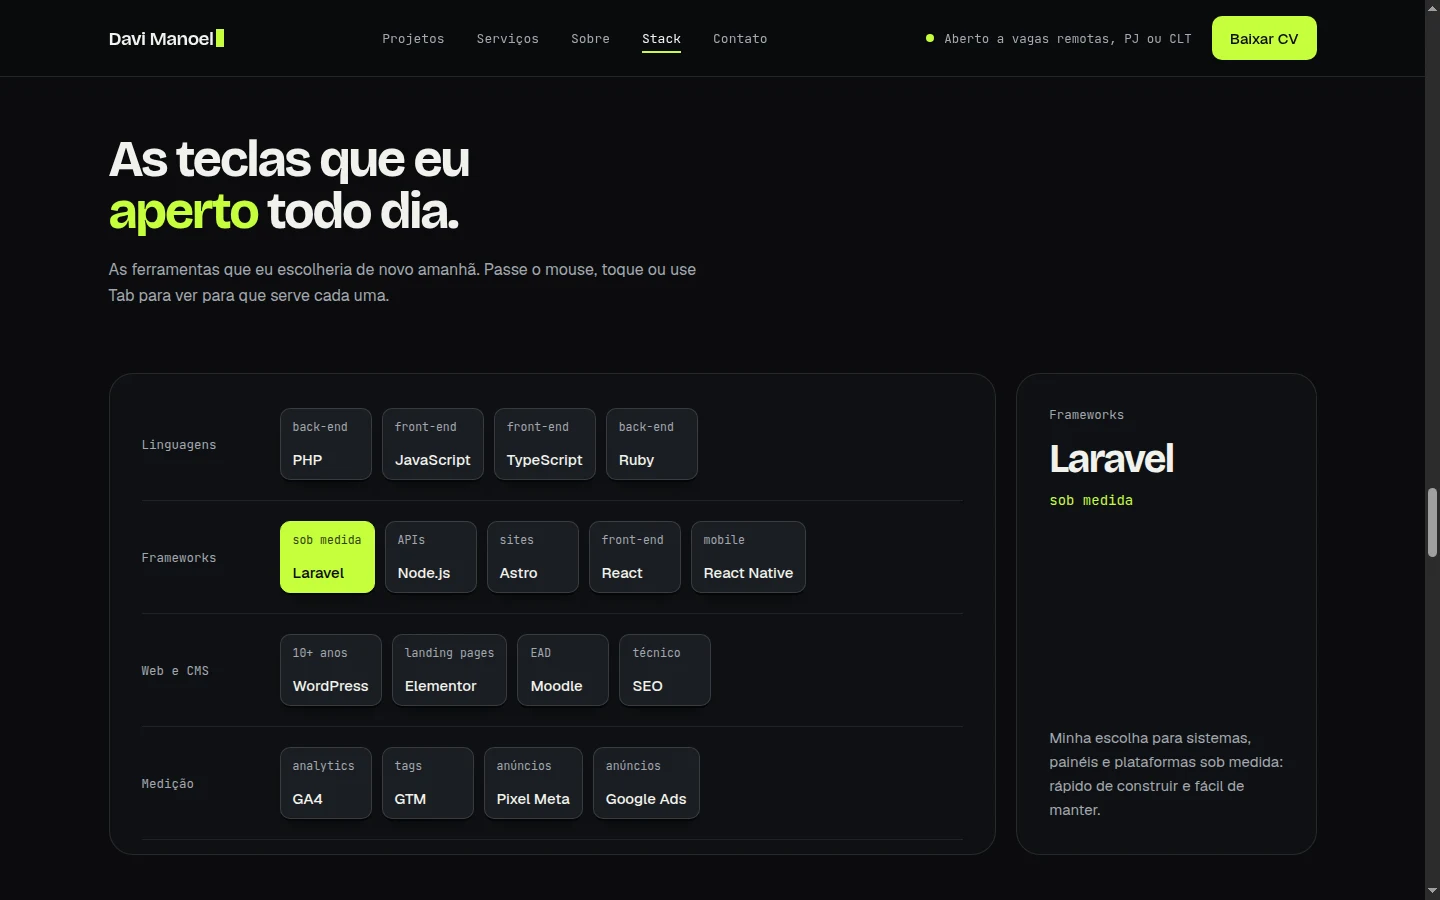
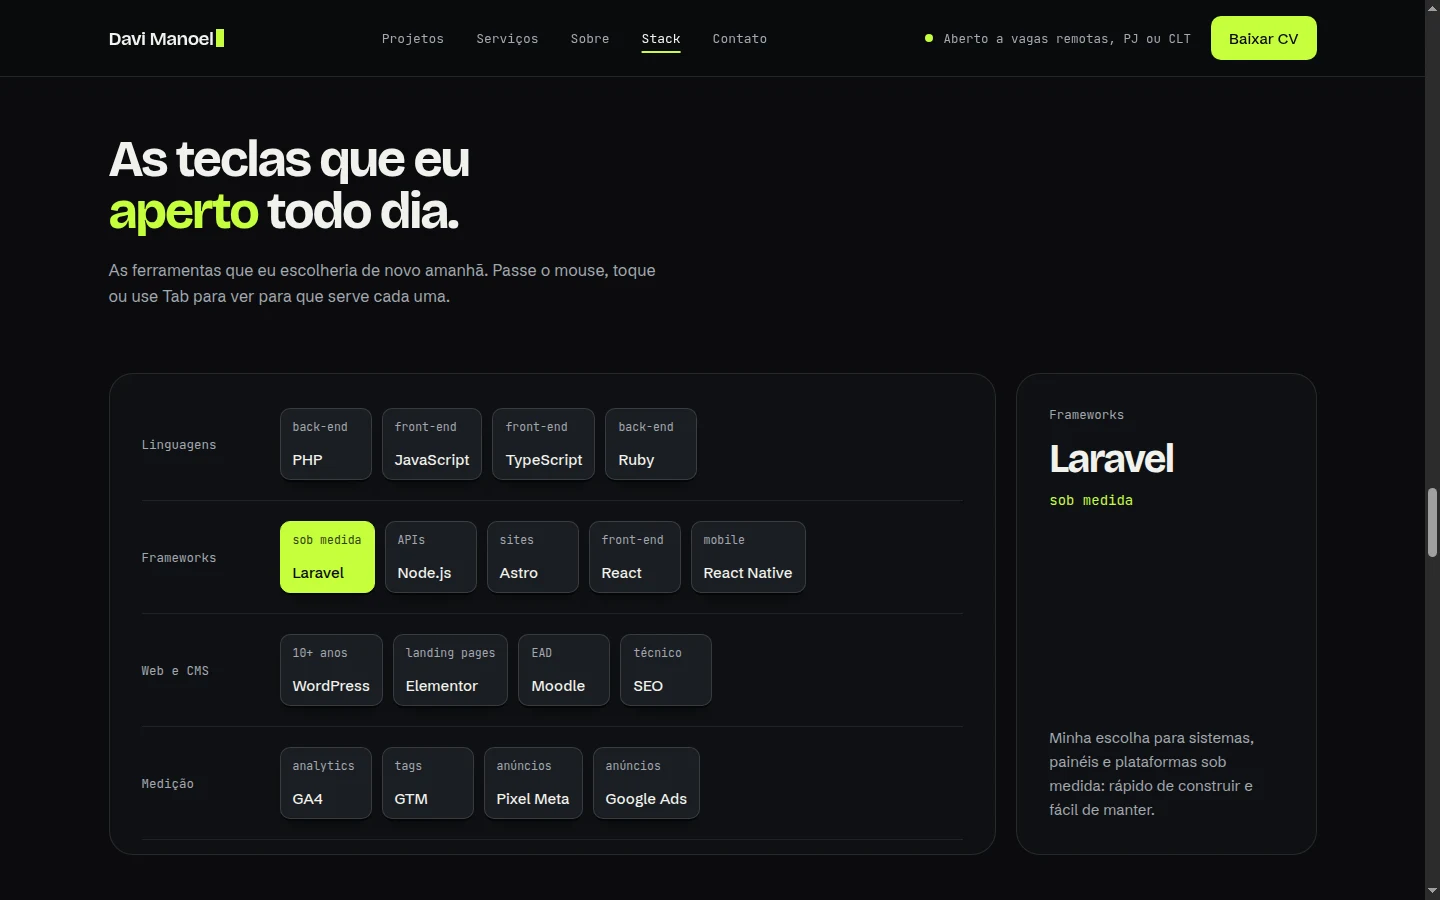
feat: update font references and asset files for improved site performance

diff --git a/README.md b/README.md
@@ -10,7 +10,7 @@ feito para carregar rápido até no 4G.
 [![Astro 7](https://img.shields.io/badge/Astro-7-0b0c0e?style=flat-square&logo=astro&logoColor=c6ff3d)](https://astro.build)
 [![TypeScript strict](https://img.shields.io/badge/TypeScript-strict-0b0c0e?style=flat-square&logo=typescript&logoColor=c6ff3d)](tsconfig.json)
 [![JS no navegador](https://img.shields.io/badge/JS_no_navegador-2%2C3_kB-c6ff3d?style=flat-square&labelColor=0b0c0e)](#em-números)
-[![Primeira carga](https://img.shields.io/badge/primeira_carga-234_kB-c6ff3d?style=flat-square&labelColor=0b0c0e)](#em-números)
+[![Primeira carga](https://img.shields.io/badge/primeira_carga-252_kB-c6ff3d?style=flat-square&labelColor=0b0c0e)](#em-números)
 [![Node](https://img.shields.io/badge/node-%E2%89%A522.23-0b0c0e?style=flat-square&logo=nodedotjs&logoColor=c6ff3d)](.nvmrc)
 
 [LinkedIn](https://www.linkedin.com/in/davi-manoel/) · [Site Sob Medida](https://www.sitesobmedida.com.br/) · [GitHub](https://github.com/sondavi1991)
@@ -26,7 +26,7 @@ Medido no build de produção, primeira visita em desktop, sem cache:
 | Métrica | Valor |
 | --- | --- |
 | Requisições | **8** |
-| Peso transferido | **~234 kB** (comprimido) |
+| Peso transferido | **~252 kB** (comprimido) |
 | JavaScript | **2,3 kB**, embutido no HTML, sem framework |
 | Fontes | 3 arquivos variáveis WOFF2, servidos pelo próprio site |
 | Imagens | WebP responsivo, só o hero carrega de imediato |
@@ -35,7 +35,7 @@ Medido no build de produção, primeira visita em desktop, sem cache:
 %%{init: {'theme':'base','themeVariables':{'pie1':'#c6ff3d','pie2':'#7a9a26','pie3':'#3d4a14','pie4':'#a3a8b0','pieStrokeColor':'#0b0c0e','pieOuterStrokeColor':'#0b0c0e','pieTitleTextSize':'16px','pieSectionTextColor':'#0b0c0e','pieLegendTextColor':'#a3a8b0'}}}%%
 pie showData
     title Primeira carga por tipo (kB comprimidos)
-    "Fontes" : 137.5
+    "Fontes" : 155.1
     "Imagens" : 79.2
     "HTML + JS embutido" : 11.7
     "CSS" : 5.7
@@ -64,7 +64,7 @@ pie showData
   e devolve o foco ao botão. O menu destaca a seção que está na tela.
 - **Teclado de stack interativo.** Funciona com mouse, toque e Tab. No celular, o painel de
   descrição acompanha a rolagem.
-- **Fontes sem depender do Google.** Bricolage Grotesque, Geist e JetBrains Mono são baixadas no
+- **Fontes sem depender do Google.** Bricolage Grotesque, Schibsted Grotesk e JetBrains Mono são baixadas no
   build (com o eixo de tamanho óptico da Bricolage) e servidas pelo próprio site, com `preload` e
   fonte reserva calibrada para a página não “pular” enquanto carrega.
 - **Conteúdo separado do layout.** Textos, projetos, stack, carreira e FAQ moram num único arquivo
@@ -103,7 +103,7 @@ flowchart LR
 | Framework | [Astro 7](https://astro.build), saída estática |
 | Linguagem | TypeScript em modo `strict` |
 | Estilos | CSS puro com custom properties |
-| Fontes | Fonts API do Astro: Bricolage Grotesque, Geist e JetBrains Mono |
+| Fontes | Fonts API do Astro: Bricolage Grotesque, Schibsted Grotesk e JetBrains Mono |
 | Imagens | `astro:assets` + Sharp (WebP em vários tamanhos) |
 | Interações | `<script>` nativos, sem framework de UI |
 
